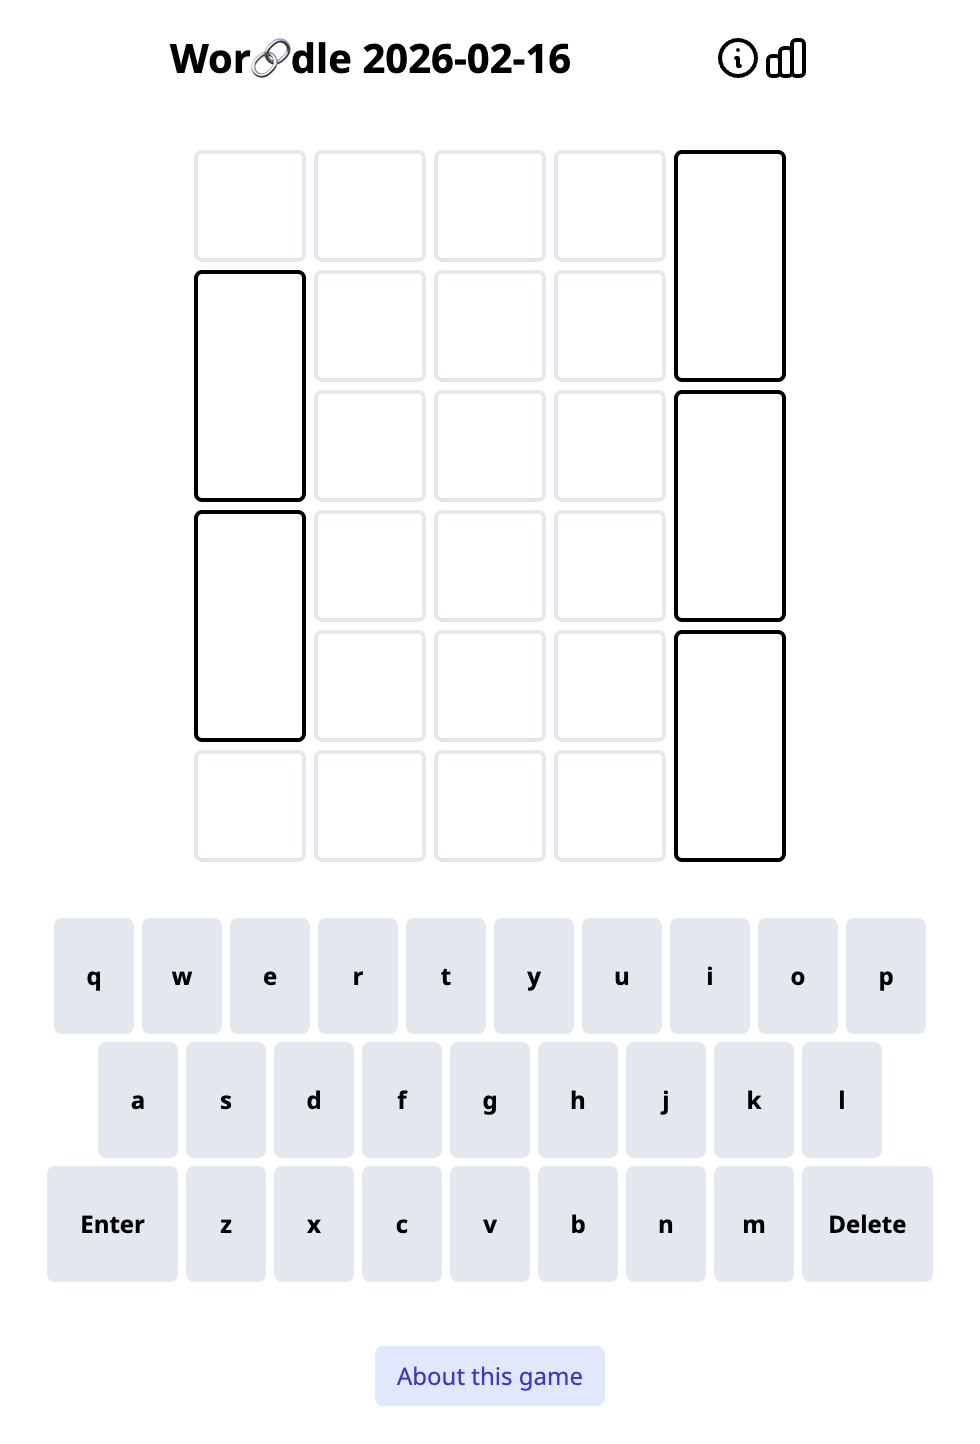
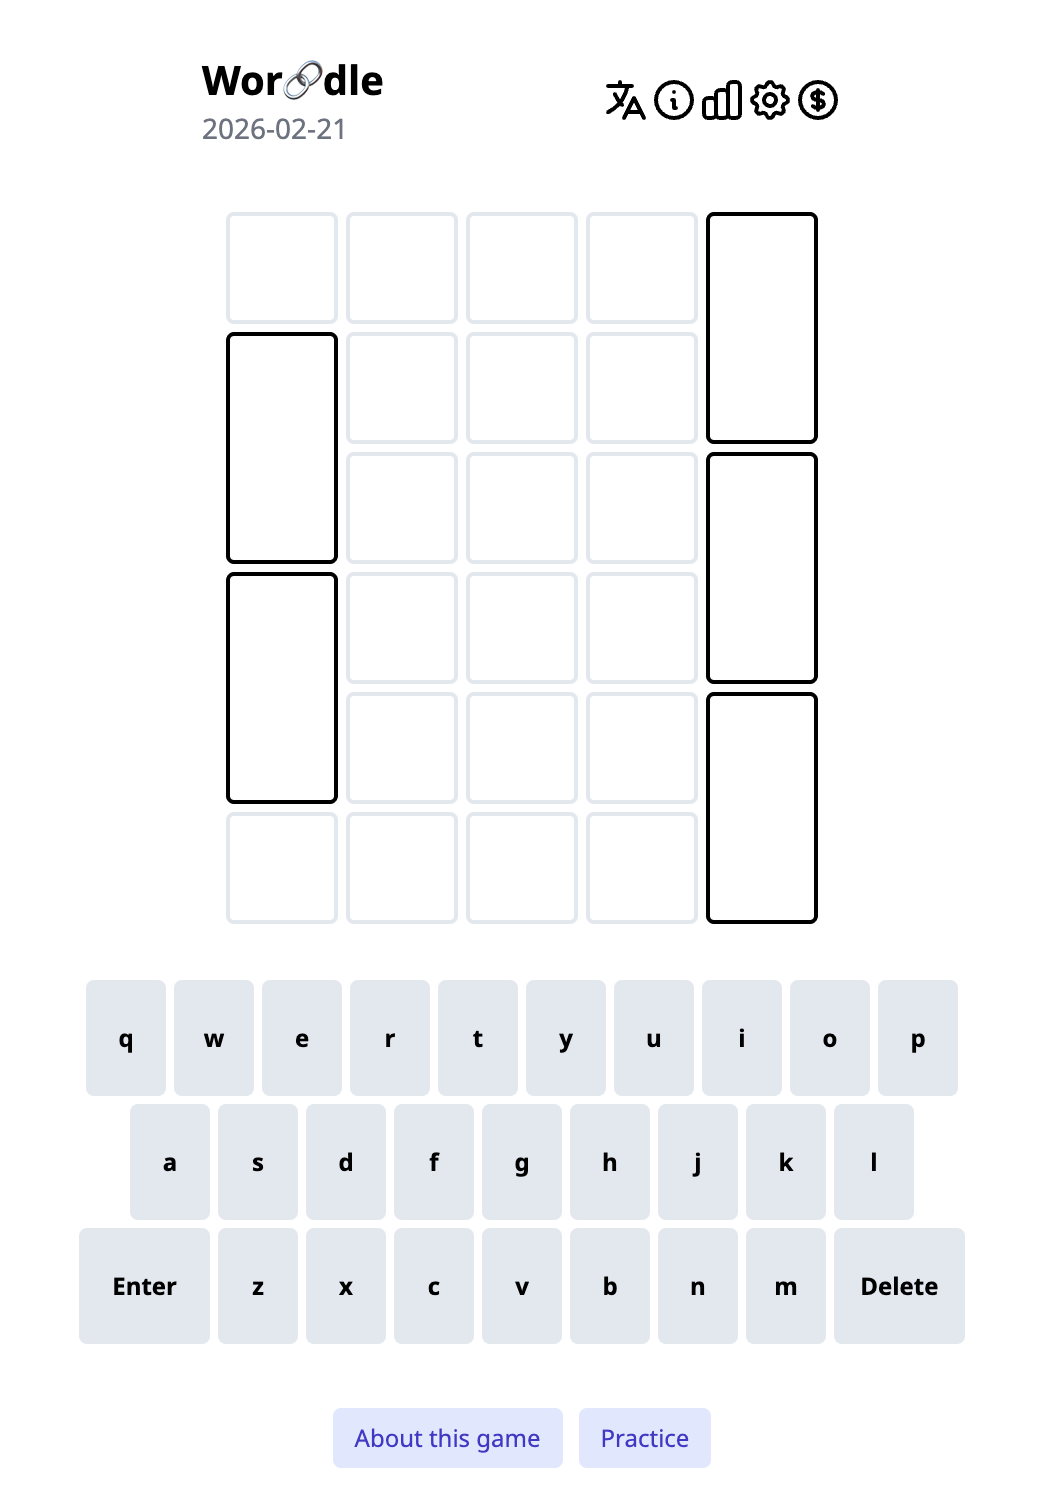
feat: revamp README with updated screenshots and Features section
스크린샷 전체 업데이트 및 게임플레이 스토리라인 개선 (SHAKE → DRAKE).
Features 섹션 추가: Practice Mode, Multi-Language, Settings, Donate.

Changed region(s): [[0.0306, 0.0312, 0.949, 0.9037], [0.3061, 0.9349, 0.6735, 0.9972]]

diff --git a/README.md b/README.md
@@ -10,6 +10,8 @@ A new word every day at [ootzk.github.io/Wor-chain-dle](https://ootzk.github.io/
   <img src="assets/empty-board.png" alt="Wor-chain-dle game board" width="300" />
 </p>
 
+---
+
 ## How to Play
 
 Guess the hidden 5-letter word in 6 tries. After each guess, tiles change color to show how close you were:
@@ -26,16 +28,16 @@ Guess the hidden 5-letter word in 6 tries. After each guess, tiles change color 
 
 Here's the twist. Starting from your **2nd guess**, a letter **chains** from your previous word. The chained letter is auto-filled and locked — you can't change it.
 
-Your first guess is free. Let's say you start with **build**:
+Your first guess is free. Let's say you start with **SHAKE**:
 
 <p align="center">
-  <img src="assets/first-guess.png" alt="First guess: BUILD" width="300" />
+  <img src="assets/first-guess.png" alt="First guess: SHAKE" width="300" />
 </p>
 
-Now the last letter **d** chains down to your second guess. It's already locked in — your next word must end (or start) with that letter.
+The last letter **E** chains down to your second guess. It's already locked in — your next word must end with that letter. You enter **DRAKE**:
 
 <p align="center">
-  <img src="assets/second-guess.png" alt="Second guess: SPEED chains from D" width="300" />
+  <img src="assets/second-guess.png" alt="Second guess: DRAKE chains from E" width="300" />
 </p>
 
 The chain alternates sides like a snake:
@@ -61,7 +63,7 @@ Guess 5 → 6:  last letter chains   (right side)
 Solve the chain and you'll be rewarded:
 
 <p align="center">
-  <img src="assets/success.png" alt="Solved! UNCUT" width="300" />
+  <img src="assets/success.png" alt="Victory!" width="300" />
 </p>
 
 Track your stats and share your results with friends:
@@ -80,6 +82,46 @@ Wor🔗dle 2026/02/16 6/6
 ─🟩🟩🟩🟩🟩┘  
 
 ootzk.github.io/Wor-chain-dle/
+
+---
+
+## Features
+
+### Practice Mode
+
+Done with today's word? Tap "Practice" at the bottom to play unlimited games with random words — no waiting until tomorrow.
+
+<p align="center">
+  <img src="assets/practice-mode.png" alt="Practice Mode" width="300" />
+</p>
+
+### Multi-Language Support
+
+Available in 6 languages. Tap the translate icon in the header to switch.
+
+<p align="center">
+  <img src="assets/language-select-kor.png" alt="Language selection" width="300" />
+  &nbsp;&nbsp;
+  <img src="assets/how-to-play-kor.png" alt="How to Play in Korean" width="300" />
+</p>
+
+### Settings
+
+Toggle uppercase letters on or off from the settings menu.
+
+<p align="center">
+  <img src="assets/uppercase.png" alt="Uppercase Letters setting" width="300" />
+</p>
+
+### Support the Developer
+
+If you enjoy the game, consider buying the developer a drink!
+
+<p align="center">
+  <img src="assets/donation.png" alt="Donate" width="300" />
+</p>
+
+---
 
 ## Development
 
